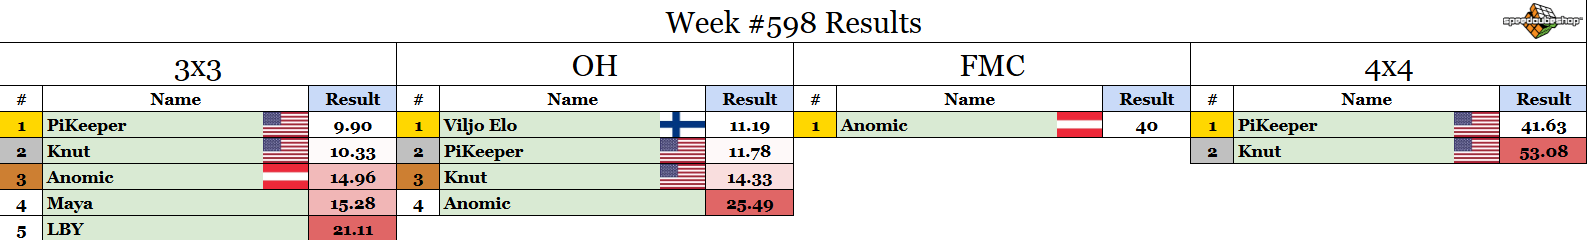
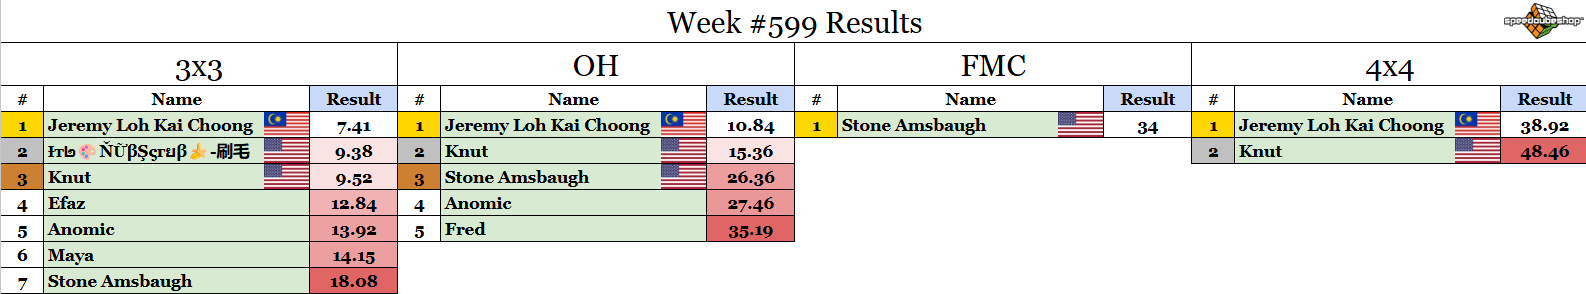
weekly comp update

diff --git a/src/weeklycomp/post.md b/src/weeklycomp/post.md
@@ -1,10 +1,10 @@
-## Weekly Competition #599 
+## Weekly Competition #600 
  
 Sponsored by SpeedCubeShop
 Shop here: [speedcubeshop.com/rouxcomp](https://speedcubeshop.com/rouxcomp)
 Use code ROUX for 5% off
 
-One competitor will be selected at random to receive a $5 SCS gift card! Congrats to last week's winner by a random draw: **Viljo Elo**. DM me for the prize. 
+One competitor will be selected at random to receive a $5 SCS gift card! Congrats to last week's winner by a random draw: **Jeremy Loh Kai Choong**. DM me for the prize. 
  
 Check whether or not you participated this week yet at [https://bit.ly/RMSWeeklyCompSummary](https://bit.ly/RMSWeeklyCompSummary)  
  
@@ -18,29 +18,29 @@ Check whether or not you participated this week yet at [https://bit.ly/RMSWeekly
  7. The comp runs until Sunday 5pm Eastern time (more or less). Enter your times using the forms links below. 
  
 ### 3x3: [Submission Form](https://forms.gle/H5xoCWvGKnZ92fQt8) 
- 1. U2 B2 F2 L' B2 R2 F2 R' U2 L2 U B' D' F D F R' D' 
- 2. R D2 R' U2 R' F2 D2 R' B2 L B' F' R' B2 F' D' U2 F L 
- 3. F R2 B D2 L2 R2 F2 L2 U2 B D2 R' B U B2 F' U F' U2 R2 
- 4. B R2 U F2 D' B2 L2 D2 U B2 F2 L2 D' R F2 D2 R2 B' L F D 
- 5. B' L R2 F2 D L2 R2 U' L2 B2 D' B2 D' L' D2 F' L2 R B' 
+ 1. F R' B L D2 R D L' F2 B2 R F2 R U2 R L2 D2 F D 
+ 2. U2 D F' D' R2 B R U L' F' R2 B L2 B' D2 F' R2 B L2 B' L2 
+ 3. U2 F2 L2 F2 U B2 U L2 U F2 L' F2 D U' B L F L U2 L 
+ 4. B' D' L D F2 L2 R2 D F2 U' B2 D B' L D2 L2 U2 B F2 
+ 5. F' U' L U2 F2 U2 B2 U2 R' F2 L U2 F L' D' U' R2 B' D2 
  
 ### OH: [Submission Form](https://forms.gle/UgRLW3K1d5KkMGfM9) 
- 1. B' U L2 F' L2 F R2 U2 F D2 B U2 B2 L' U2 F' R U2 B' R' 
- 2. B' U2 F R' D' B U' R F2 B' L2 F U2 B R2 U2 L2 U2 F R U2 
- 3. F' L F R' L2 F' L2 D U2 B2 L2 D2 F2 B U2 R2 U2 L2 F2 U 
- 4. D' F2 R2 F2 U B2 D F2 R2 D' R2 B U' F' L D2 L U' F2 R D 
- 5. R F R D2 F2 L2 D' F2 U F2 L2 D2 R2 B U' L2 F L' U' R 
+ 1. D F2 R2 B2 U' L2 D2 R2 D B2 F L2 U2 B' R D' R F L' R 
+ 2. R B' U R' F L D B' R' L2 F2 D' L2 U B2 R2 D2 B2 R2 U2 
+ 3. F D2 B' R' F' D B U' D2 F D2 L2 B U2 R2 F R2 F' R2 L' 
+ 4. U2 R' B2 U F L' U L U' F B U2 R2 U2 L2 U2 B' D2 F2 B' 
+ 5. R' B' D2 F' U2 L2 F L2 B F' R2 U2 F' L' D' R' U R' B L' B 
  
 ### FMC: [Submission Form](https://forms.gle/1P9VUgZmA1pibwvL9) 
- 1. R' U' F U' R2 F' L2 D2 F D2 F D2 R2 F2 D2 L' U F2 R2 D2 U' R D' R' U' F 
+ 1. R' U' F D2 F' B D2 R' B R2 B2 D R L U2 L' D2 F2 L U2 L2 B2 L' R' U' F 
  
 ### 4x4: [Submission Form](https://forms.gle/bHNjncvEcPvFWBP2A) 
- 1. L F R L B' R' F D L B2 R2 F2 L2 U L2 U' F2 D' F2 U Rw2 Uw2 F' L2 D F2 B' L2 Rw2 U' F' R D2 Rw D2 B R2 Rw' Fw Rw' F L Fw Rw 
- 2. F U2 F' U2 B' D2 B2 R2 F L2 F' R2 L B D2 B R' U' D' F Rw2 Fw2 L U2 R2 B2 Fw2 D' Fw2 U' R F Fw2 L Fw' U' D2 Uw Fw2 Uw L Rw' Fw' U' L' 
- 3. F' R U2 F2 R2 F' R2 D2 F U2 L2 F2 U2 D B2 R F2 L F' R' Rw2 F' L' U2 B Rw2 Fw2 R2 Fw2 L' Uw' B U2 R' U L Rw Fw' R' B2 Fw Rw F2 
- 4. U2 F L2 B2 R2 U2 B' L2 F' B' R2 L2 U R2 U F2 U R' D' F R2 Uw2 L' F2 Uw2 L' Rw2 U' D2 F2 Rw2 B2 U2 Fw' R F2 B2 Rw2 Fw Rw F D' Rw' F2 Rw Fw2 
- 5. U F R2 F2 B' R2 D2 L2 U2 B' L D R' F' L' B' R B2 Rw2 B2 Fw2 L Fw2 U' B2 R D2 Fw2 D R2 Fw' D2 R' B' U2 Rw B U' Uw' F R2 Rw D' 
+ 1. B2 R' F2 L' F2 D2 F2 L U2 L' U' F' B U2 R D2 L' D' R' B2 Rw2 U' L Rw2 U2 Rw2 U Uw2 L U2 Fw2 Uw2 B' U' Fw' D Fw Rw Uw2 L' Rw B Uw Rw2 B 
+ 2. D2 R' F2 R2 U2 B2 U' R2 U F2 L2 D2 F L D' F' R2 D' F2 Uw2 R B2 L' Uw2 F2 D' Rw2 B2 R F2 Fw R' U F2 U Fw Rw2 B2 Uw F Fw' Uw2 Rw Fw 
+ 3. D' B U2 D2 L B2 D2 L' B2 L2 F2 L' B' U' D' F L F2 U2 D2 Uw2 Fw2 R' D2 Fw2 Rw2 B' D2 L2 D2 Rw2 F' U2 Uw' Fw2 L U' F B' Uw' Fw' L Rw D2 F2 
+ 4. B' R' L2 F2 D L2 U R2 D F2 D F2 R2 L2 B' D B' D' L2 U2 F' Rw2 Uw2 Fw2 R2 D R U' D Rw2 U Uw2 Fw2 L F' Fw' U B2 U Fw Uw' Rw Fw' L2 U2 Uw2 
+ 5. B R' L2 B U2 B L2 B U2 F R2 B L' D R' L2 F' U L U' Uw2 L' D R' Uw2 Fw2 D L' D2 Rw2 U' R' F U L2 Rw2 Fw' Rw F' Uw' Rw2 U' R2 Fw2 
  
 ### Winning FMC solutions from last week: 
- 1. Anomic, 40 moves: [SOLUTION](https://bit.ly/4wZXOuT)
+ 1. Stone Amsbaugh, 34 moves: [SOLUTION](https://bit.ly/4gUpGL6)
  
